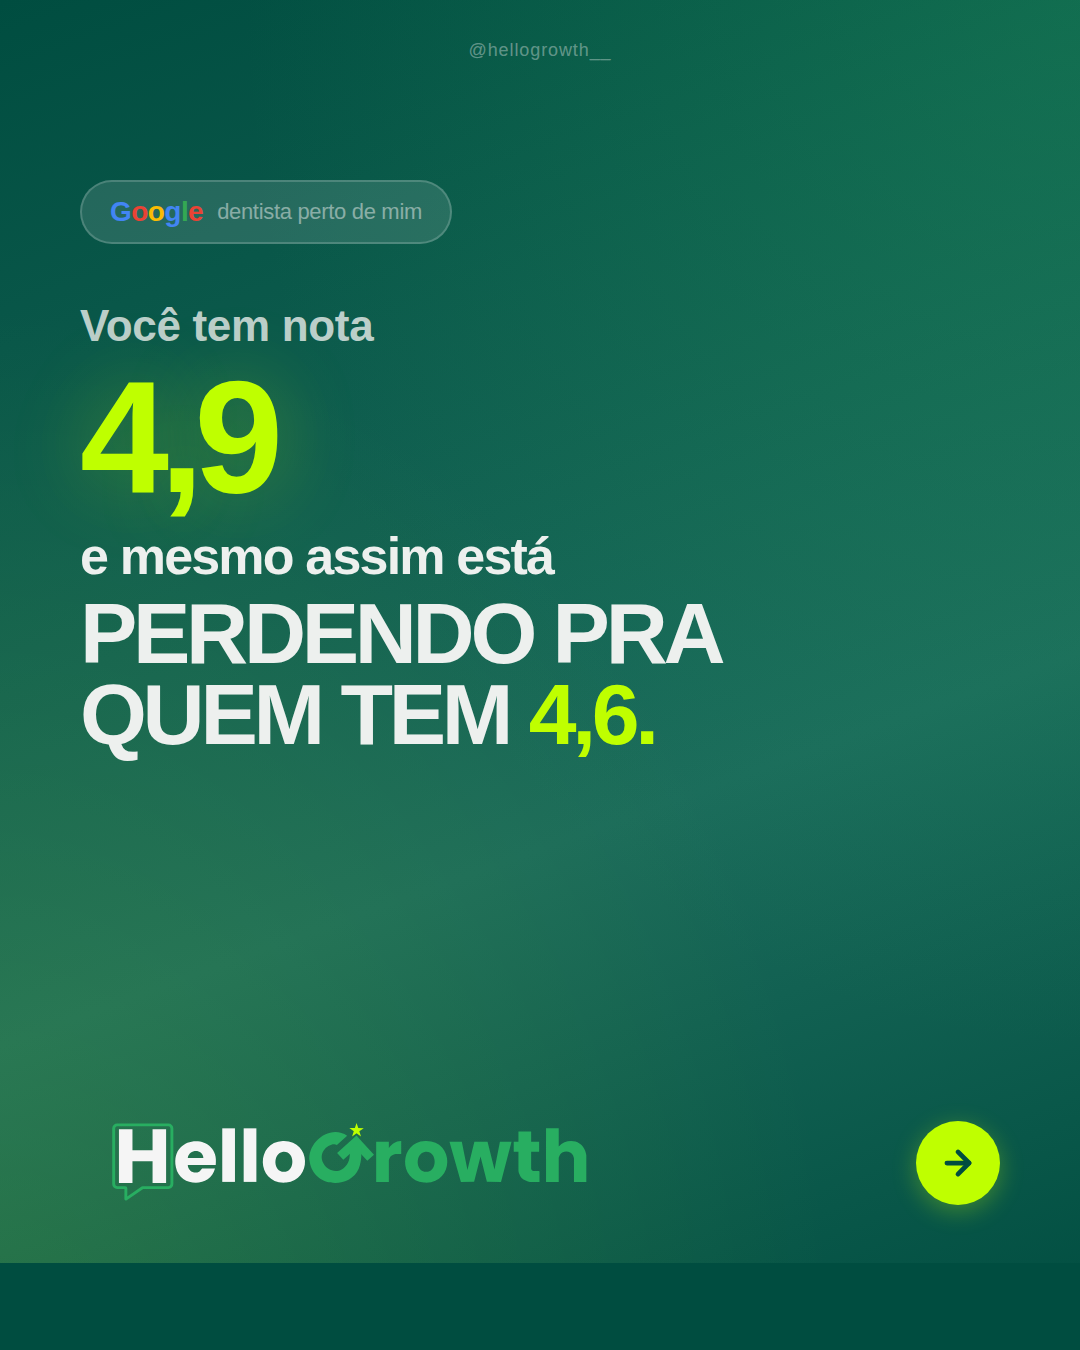
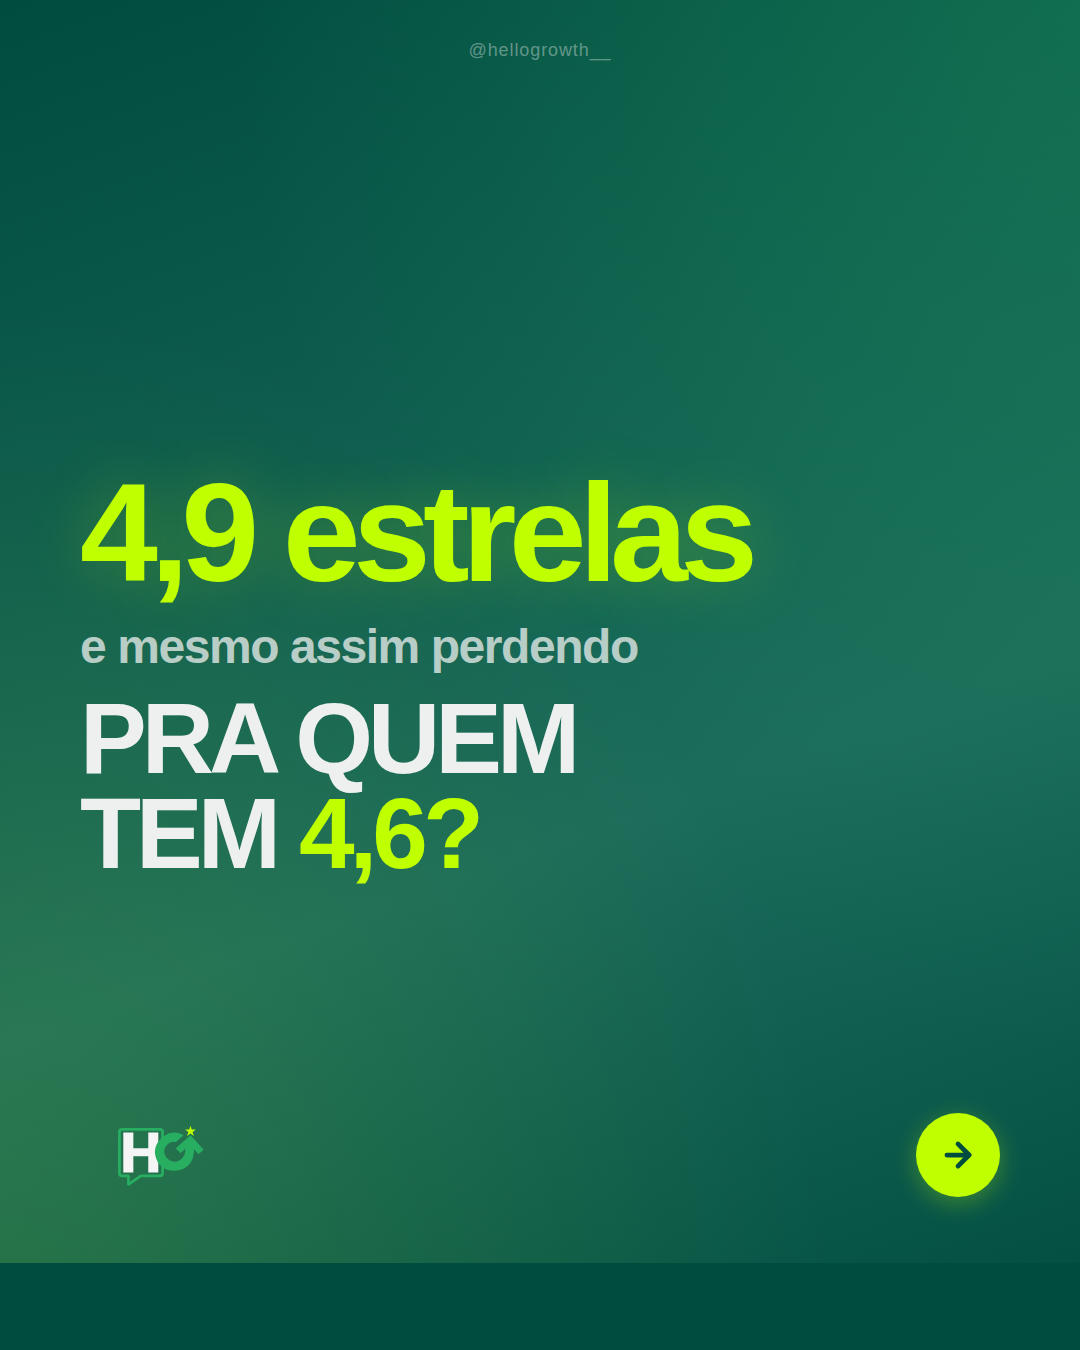
Nota Alta V7: cover hierarchy, Google white pill, card2 reverted clean
- Card 1: "4,9 estrelas" (140px) → "e mesmo assim perdendo" (48px) →
  "PRA QUEM TEM 4,6?" (100px). No google bar, no full logo — symbol only
- Card 2: reverted to clean layout (no white card behind), Google logo
  inline proportional to text
- Card 3: Google logo inside white pill for contrast on dark bg,
  "virando avaliação" highlight-block with 18px margin-top, glass card
  around the main copy for readability

https://claude.ai/code/session_01RXRUyw64HWp6pgoosUTsE4

diff --git a/squads/social-content/output/2026-06-05-nota-alta/slides-v2/slide-02.html b/squads/social-content/output/2026-06-05-nota-alta/slides-v2/slide-02.html
@@ -29,33 +29,25 @@ html, body {
   letter-spacing: 0.05em;
 }
 
-/* Google logo proportional to text */
 .g-logo-big {
-  font-weight: 700; letter-spacing: -0.02em;
-  display: inline;
+  font-weight: 700; letter-spacing: -0.02em; display: inline;
 }
 .g-logo-big .b { color: #4285F4; }
 .g-logo-big .r { color: #EA4335; }
 .g-logo-big .y { color: #FBBC04; }
 .g-logo-big .g { color: #34A853; }
 
-/* White card behind text for readability */
-.content-card {
-  margin-top: 90px;
-  background: rgba(255,255,255,0.85);
-  border-radius: 32px;
-  padding: 50px 50px 56px;
-  box-shadow: 0 16px 48px rgba(0,77,64,0.10);
-}
 .intro {
+  margin-top: 110px;
   font-size: 52px; font-weight: 800;
   color: #004d40; line-height: 1.15;
   letter-spacing: -0.035em;
-  margin-bottom: 30px;
+  margin-bottom: 36px;
 }
 .body-text {
   font-size: 38px; font-weight: 500;
   color: #1b6b5b; line-height: 1.5;
+  margin-bottom: 44px;
 }
 .body-text .accent {
   background: #bfff00;
@@ -63,38 +55,29 @@ html, body {
   font-weight: 800; color: #004d40;
 }
 
-/* Comparativo */
-.compare-row {
-  display: flex; gap: 24px;
-  margin-top: 36px;
-}
+.compare-row { display: flex; gap: 24px; }
 .compare-box {
-  flex: 1;
-  border-radius: 24px;
-  padding: 30px 24px;
-  text-align: center;
+  flex: 1; border-radius: 24px;
+  padding: 30px 24px; text-align: center;
 }
 .compare-box.loser {
   background: rgba(0,77,64,0.06);
   border: 2px solid rgba(0,77,64,0.12);
 }
 .compare-box.winner {
-  background: #004d40;
-  color: #edf0ee;
+  background: #004d40; color: #edf0ee;
   box-shadow: 0 14px 40px rgba(0,77,64,0.30);
 }
 .compare-rating {
   font-size: 72px; font-weight: 900;
-  line-height: 1; letter-spacing: -0.04em;
-  margin-bottom: 8px;
+  line-height: 1; letter-spacing: -0.04em; margin-bottom: 8px;
 }
 .compare-box.winner .compare-rating { color: #bfff00; }
 .compare-reviews { font-size: 24px; font-weight: 700; line-height: 1.2; }
 .compare-note { font-size: 18px; font-weight: 500; margin-top: 8px; opacity: 0.6; }
 .compare-box.winner .compare-note { opacity: 0.7; }
 .compare-label {
-  margin-top: 12px;
-  font-size: 16px; font-weight: 800;
+  margin-top: 12px; font-size: 16px; font-weight: 800;
   text-transform: uppercase; letter-spacing: 0.12em;
 }
 .compare-box.winner .compare-label {
@@ -109,8 +92,7 @@ html, body {
 .bottom-row img { height: 120px; }
 .arrow-next {
   width: 84px; height: 84px;
-  background: #28ae61;
-  border-radius: 50%;
+  background: #28ae61; border-radius: 50%;
   display: flex; align-items: center; justify-content: center;
   box-shadow: 0 6px 24px rgba(40,174,97,0.35);
 }
@@ -121,11 +103,9 @@ html, body {
 <div class="card">
   <div class="handle">@hellogrowth__</div>
 
-  <div class="content-card">
-    <div class="intro">O <span class="g-logo-big"><span class="b">G</span><span class="r">o</span><span class="y">o</span><span class="b">g</span><span class="g">l</span><span class="r">e</span></span> não olha só a nota.</div>
+  <div class="intro">O <span class="g-logo-big"><span class="b">G</span><span class="r">o</span><span class="y">o</span><span class="b">g</span><span class="g">l</span><span class="r">e</span></span> não olha só a nota.</div>
 
-    <div class="body-text">Olha <span class="accent">quantas avaliações</span> você tem,<br>se são <span class="accent">recentes</span> e se chegam <span class="accent">toda semana</span>.</div>
-  </div>
+  <div class="body-text">Olha <span class="accent">quantas avaliações</span> você tem,<br>se são <span class="accent">recentes</span> e se chegam <span class="accent">toda semana</span>.</div>
 
   <div class="compare-row">
     <div class="compare-box loser">

diff --git a/squads/social-content/output/2026-06-05-nota-alta/slides-v2/slide-01.html b/squads/social-content/output/2026-06-05-nota-alta/slides-v2/slide-01.html
@@ -22,6 +22,8 @@ html, body {
     radial-gradient(ellipse at bottom left, rgba(191,255,0,0.12) 0%, transparent 55%),
     linear-gradient(160deg, #004d40 0%, #1b6b5b 60%, #004d40 100%);
   padding: 80px 80px;
+  display: flex; flex-direction: column;
+  justify-content: center;
 }
 .handle {
   position: absolute; top: 40px; left: 50%; transform: translateX(-50%);
@@ -29,62 +31,30 @@ html, body {
   letter-spacing: 0.05em;
 }
 
-/* Google search bar element as decorative anchor */
-.google-bar {
-  margin-top: 100px;
-  display: inline-flex; align-items: center; gap: 14px;
-  background: rgba(255,255,255,0.12);
-  border: 2px solid rgba(255,255,255,0.18);
-  border-radius: 50px;
-  padding: 14px 28px;
-  margin-bottom: 56px;
+.line1 {
+  font-size: 140px; font-weight: 900;
+  color: #bfff00; line-height: 0.92;
+  letter-spacing: -0.055em;
+  text-shadow: 0 0 60px rgba(191,255,0,0.25);
 }
-.g-logo {
-  font-size: 28px; font-weight: 700; letter-spacing: -0.02em;
+.line2 {
+  font-size: 48px; font-weight: 600;
+  color: rgba(237,240,238,0.75); line-height: 1.2;
+  margin-top: 20px; letter-spacing: -0.03em;
 }
-.g-logo .b { color: #4285F4; }
-.g-logo .r { color: #EA4335; }
-.g-logo .y { color: #FBBC04; }
-.g-logo .g { color: #34A853; }
-.g-search-text {
-  font-size: 22px; font-weight: 500;
-  color: rgba(237,240,238,0.5);
-}
-
-/* Main content */
-.pre {
-  font-size: 44px; font-weight: 600;
-  color: rgba(237,240,238,0.8);
-  line-height: 1.2; margin-bottom: 14px;
-}
-.headline {
-  font-size: 160px; font-weight: 900;
-  color: #bfff00; line-height: 0.88;
-  letter-spacing: -0.06em;
-  text-shadow: 0 0 80px rgba(191,255,0,0.3);
-  margin-bottom: 20px;
-}
-.mid {
-  font-size: 52px; font-weight: 700;
-  color: #edf0ee; line-height: 1.1;
-  letter-spacing: -0.035em;
-  margin-bottom: 8px;
-}
-.closer {
-  font-size: 86px; font-weight: 900;
+.line3 {
+  font-size: 100px; font-weight: 900;
   color: #edf0ee; line-height: 0.95;
-  letter-spacing: -0.05em;
+  margin-top: 16px; letter-spacing: -0.05em;
   text-transform: uppercase;
 }
-.closer .num {
-  color: #bfff00;
-}
+.line3 .num { color: #bfff00; }
 
 .bottom-row {
   position: absolute; bottom: 130px; left: 80px; right: 80px;
   display: flex; align-items: center; justify-content: space-between;
 }
-.logo-full img { height: 110px; }
+.bottom-row img { height: 130px; }
 .arrow-next {
   width: 84px; height: 84px;
   background: #bfff00;
@@ -99,20 +69,12 @@ html, body {
 <div class="card">
   <div class="handle">@hellogrowth__</div>
 
-  <div class="google-bar">
-    <div class="g-logo"><span class="b">G</span><span class="r">o</span><span class="y">o</span><span class="b">g</span><span class="g">l</span><span class="r">e</span></div>
-    <div class="g-search-text">dentista perto de mim</div>
-  </div>
-
-  <div class="pre">Você tem nota</div>
-  <div class="headline">4,9</div>
-  <div class="mid">e mesmo assim está</div>
-  <div class="closer">perdendo pra<br>quem tem <span class="num">4,6.</span></div>
+  <div class="line1">4,9 estrelas</div>
+  <div class="line2">e mesmo assim perdendo</div>
+  <div class="line3">pra quem<br>tem <span class="num">4,6?</span></div>
 
   <div class="bottom-row">
-    <div class="logo-full">
-      <img src="assets/logo-full-light.svg" alt="HelloGrowth">
-    </div>
+    <img src="assets/logo-symbol-light.svg" alt="HG">
     <div class="arrow-next">
       <svg viewBox="0 0 24 24" fill="none" stroke="#004d40" stroke-width="3" stroke-linecap="round" stroke-linejoin="round">
         <line x1="5" y1="12" x2="19" y2="12"/>

diff --git a/squads/social-content/output/2026-06-05-nota-alta/slides-v2/slide-03.html b/squads/social-content/output/2026-06-05-nota-alta/slides-v2/slide-03.html
@@ -29,32 +29,43 @@ html, body {
   letter-spacing: 0.05em;
 }
 
-/* Google logo inline, same size as surrounding text */
-.g-logo-inline {
-  font-weight: 700; letter-spacing: -0.02em;
-  display: inline;
+/* Google logo in white pill */
+.g-pill {
+  display: inline-flex; align-items: center;
+  background: rgba(255,255,255,0.92);
+  border-radius: 50px;
+  padding: 6px 18px;
+  vertical-align: baseline;
 }
-.g-logo-inline .b { color: #4285F4; }
-.g-logo-inline .r { color: #EA4335; }
-.g-logo-inline .y { color: #FBBC04; }
-.g-logo-inline .g { color: #34A853; }
+.g-pill .b { color: #4285F4; }
+.g-pill .r { color: #EA4335; }
+.g-pill .y { color: #FBBC04; }
+.g-pill .g { color: #34A853; }
+.g-pill span { font-weight: 700; letter-spacing: -0.02em; }
 
+/* Content card for readability */
+.content-card {
+  margin-top: 100px;
+  background: rgba(255,255,255,0.10);
+  border: 2px solid rgba(255,255,255,0.12);
+  border-radius: 32px;
+  padding: 50px 50px 56px;
+}
 .headline {
-  margin-top: 140px;
-  font-size: 58px; font-weight: 900;
-  color: #edf0ee; line-height: 1.2;
-  letter-spacing: -0.04em;
-  margin-bottom: 0;
+  font-size: 54px; font-weight: 900;
+  color: #edf0ee; line-height: 1.25;
+  letter-spacing: -0.035em;
 }
 .highlight-block {
   display: inline-block;
   background: #bfff00; color: #004d40;
   padding: 8px 18px;
-  font-weight: 900; font-size: 58px;
-  letter-spacing: -0.04em;
+  font-weight: 900; font-size: 54px;
+  letter-spacing: -0.035em;
   line-height: 1.2;
-  margin-top: 22px;
+  margin-top: 18px;
 }
+
 .closer {
   margin-top: 36px;
   font-size: 44px; font-weight: 700;
@@ -62,14 +73,11 @@ html, body {
   letter-spacing: -0.03em;
 }
 
-.cta-section {
-  margin-top: 60px;
-}
+.cta-section { margin-top: 50px; }
 .cta-text {
   font-size: 30px; font-weight: 500;
   color: rgba(237,240,238,0.7);
-  line-height: 1.5;
-  margin-bottom: 30px;
+  line-height: 1.5; margin-bottom: 30px;
 }
 .cta-text strong { color: #edf0ee; font-weight: 800; }
 .cta-pill {
@@ -93,12 +101,15 @@ html, body {
 <div class="card">
   <div class="handle">@hellogrowth__</div>
 
-  <div class="headline">
-    Sua qualidade não aparece no<br>
-    <span class="g-logo-inline"><span class="b">G</span><span class="r">o</span><span class="y">o</span><span class="b">g</span><span class="g">l</span><span class="r">e</span></span>
-    porque ela não está<br>
-    <span class="highlight-block">virando avaliação.</span>
+  <div class="content-card">
+    <div class="headline">
+      Sua qualidade não aparece<br>
+      no <span class="g-pill"><span class="b">G</span><span class="r">o</span><span class="y">o</span><span class="b">g</span><span class="g">l</span><span class="r">e</span></span> porque<br>
+      ela não está<br>
+      <span class="highlight-block">virando avaliação.</span>
+    </div>
   </div>
+
   <div class="closer">É esse processo que falta.</div>
 
   <div class="cta-section">
